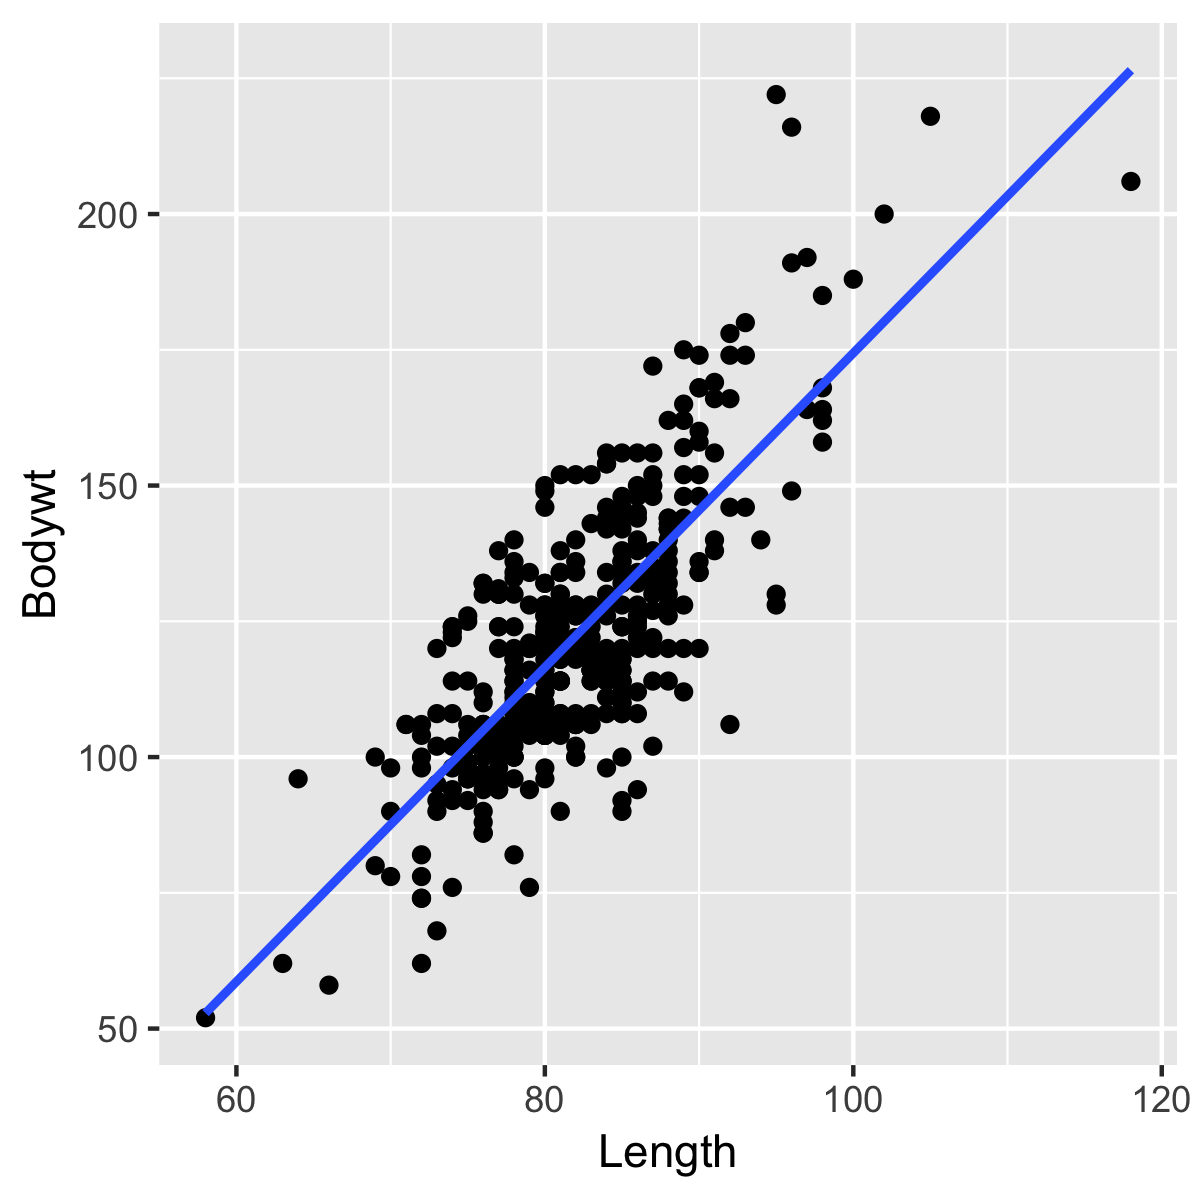
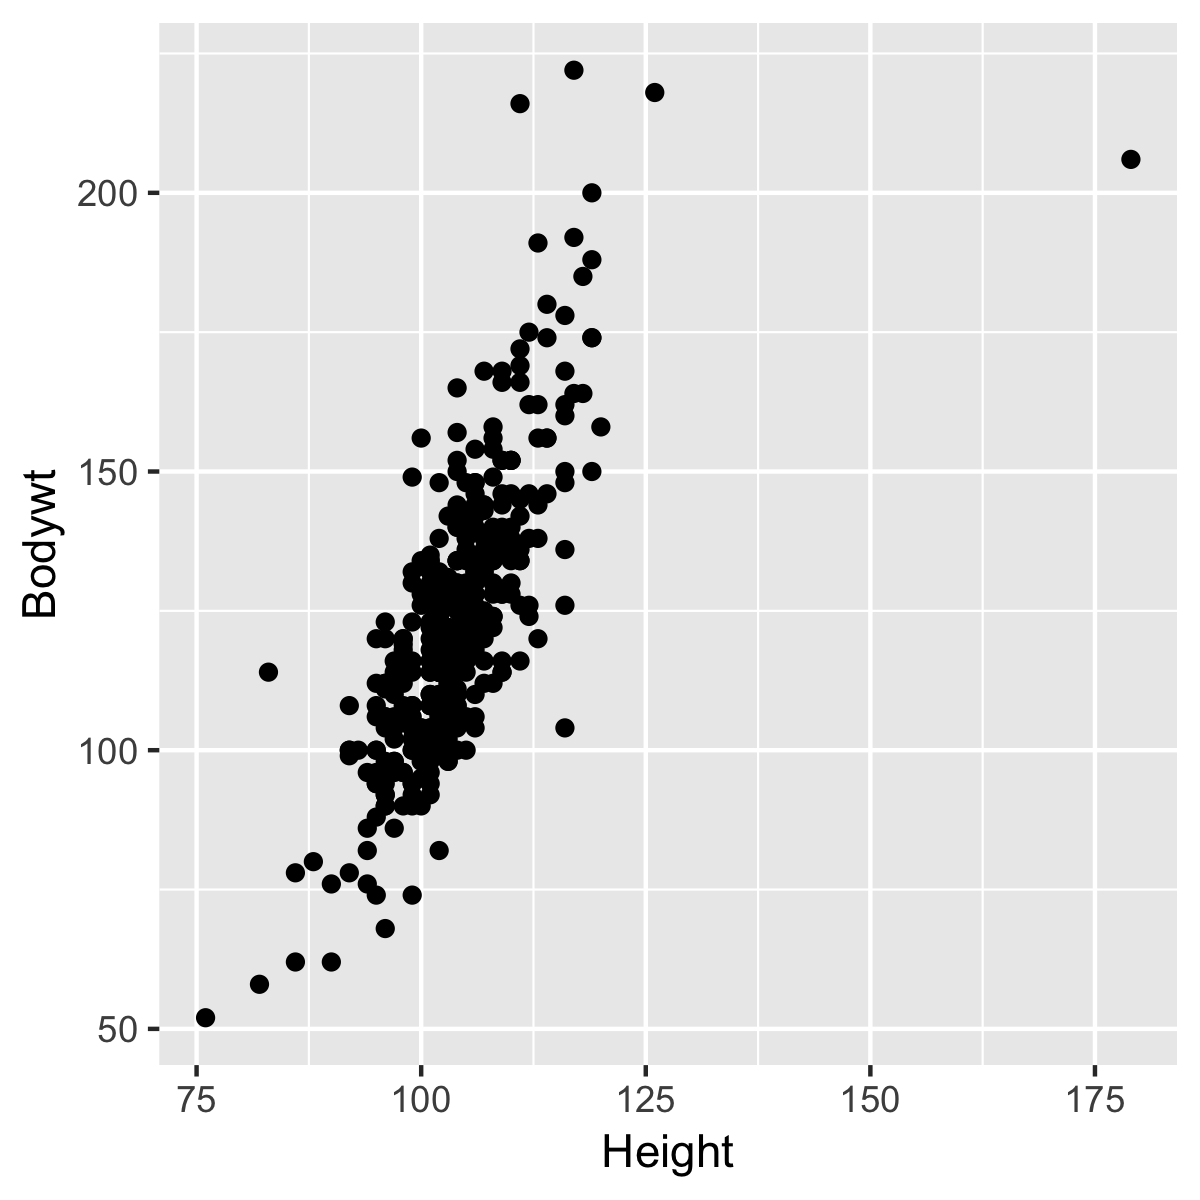
Add HW5

diff --git a/public/Drexel_lectures/Drexel_2019_Lecture_10.html b/public/Drexel_lectures/Drexel_2019_Lecture_10.html
@@ -364,7 +364,7 @@ summary(fit)$r.squared
 
 ## Interpretation of `lm()` output
 
-- Estimate of `\(\sigma\)`: it is well known that `$$\frac{RSS}{n-2}$$` is an _unbiased_ estimator of `\(\sigma\)`, where `\(n\)` is the sample size.
+- Estimate of `\(\sigma\)`: it is well known that `$$\frac{RSS}{n-2}$$` is an _unbiased_ estimator of `\(\sigma^2\)`, where `\(n\)` is the sample size.
 
 --
 
@@ -551,15 +551,15 @@ tss
 
 
 ```r
-r2 &lt;- ssreg/tss
+r2 &lt;- ssreg/tss; print(r2)
 ```
 
---
-
-Alternatively, one can use output from `summary(fit)`:
-
+```
+## [1] 0.897782
+```
 
 ```r
+# or alternatively
 summary(fit)$r.squared
 ```
 
@@ -570,6 +570,8 @@ summary(fit)$r.squared
 --
 
 - Estimate `\(\sigma\)`
+
+--
 
 
 ```r
@@ -736,7 +738,7 @@ Researchers were interested in estimating the **weight** of donkeys using other 
 ggplot(donkey, aes(Length, Bodywt)) + geom_point()
 ```
 
-&lt;img src="Drexel_2019_Lecture_10_files/figure-html/unnamed-chunk-42-1.png" width="50%" style="display: block; margin: auto;" /&gt;
+&lt;img src="Drexel_2019_Lecture_10_files/figure-html/unnamed-chunk-41-1.png" width="50%" style="display: block; margin: auto;" /&gt;
 
 ---
 
@@ -779,7 +781,63 @@ ggplot(donkey, aes(Length, Bodywt)) + geom_point() +
   geom_smooth(method = "lm", se = F)
 ```
 
+&lt;img src="Drexel_2019_Lecture_10_files/figure-html/unnamed-chunk-43-1.png" width="50%" style="display: block; margin: auto;" /&gt;
+
+---
+
+## Multiple linear regression
+
+- Simple linear regression using Height
+
+
+```r
+ggplot(donkey, aes(Height, Bodywt)) + geom_point()
+```
+
 &lt;img src="Drexel_2019_Lecture_10_files/figure-html/unnamed-chunk-44-1.png" width="50%" style="display: block; margin: auto;" /&gt;
+
+---
+
+## Multiple linear regression
+
+
+```r
+fit_Height &lt;- lm(Bodywt ~ Height, data = donkey)
+summary(fit_Height)
+```
+
+```
+## 
+## Call:
+## lm(formula = Bodywt ~ Height, data = donkey)
+## 
+## Residuals:
+##      Min       1Q   Median       3Q      Max 
+## -105.241   -9.825   -0.825    8.505   75.131 
+## 
+## Coefficients:
+##              Estimate Std. Error t value Pr(&gt;|t|)    
+## (Intercept) -137.2379    11.7708  -11.66   &lt;2e-16 ***
+## Height         2.5055     0.1132   22.13   &lt;2e-16 ***
+## ---
+## Signif. codes:  0 '***' 0.001 '**' 0.01 '*' 0.05 '.' 0.1 ' ' 1
+## 
+## Residual standard error: 16.48 on 384 degrees of freedom
+## Multiple R-squared:  0.5605,	Adjusted R-squared:  0.5594 
+## F-statistic: 489.8 on 1 and 384 DF,  p-value: &lt; 2.2e-16
+```
+
+---
+
+## Multiple linear regression
+
+
+```r
+ggplot(donkey, aes(Height, Bodywt)) + geom_point() +
+  geom_smooth(method = "lm", se = F)
+```
+
+&lt;img src="Drexel_2019_Lecture_10_files/figure-html/unnamed-chunk-46-1.png" width="50%" style="display: block; margin: auto;" /&gt;
 
 ---
 

diff --git a/static/Drexel_lectures/Drexel_2019_Lecture_10.html b/static/Drexel_lectures/Drexel_2019_Lecture_10.html
@@ -364,7 +364,7 @@ summary(fit)$r.squared
 
 ## Interpretation of `lm()` output
 
-- Estimate of `\(\sigma\)`: it is well known that `$$\frac{RSS}{n-2}$$` is an _unbiased_ estimator of `\(\sigma\)`, where `\(n\)` is the sample size.
+- Estimate of `\(\sigma\)`: it is well known that `$$\frac{RSS}{n-2}$$` is an _unbiased_ estimator of `\(\sigma^2\)`, where `\(n\)` is the sample size.
 
 --
 
@@ -551,15 +551,15 @@ tss
 
 
 ```r
-r2 &lt;- ssreg/tss
+r2 &lt;- ssreg/tss; print(r2)
 ```
 
---
-
-Alternatively, one can use output from `summary(fit)`:
-
+```
+## [1] 0.897782
+```
 
 ```r
+# or alternatively
 summary(fit)$r.squared
 ```
 
@@ -570,6 +570,8 @@ summary(fit)$r.squared
 --
 
 - Estimate `\(\sigma\)`
+
+--
 
 
 ```r
@@ -736,7 +738,7 @@ Researchers were interested in estimating the **weight** of donkeys using other 
 ggplot(donkey, aes(Length, Bodywt)) + geom_point()
 ```
 
-&lt;img src="Drexel_2019_Lecture_10_files/figure-html/unnamed-chunk-42-1.png" width="50%" style="display: block; margin: auto;" /&gt;
+&lt;img src="Drexel_2019_Lecture_10_files/figure-html/unnamed-chunk-41-1.png" width="50%" style="display: block; margin: auto;" /&gt;
 
 ---
 
@@ -779,7 +781,63 @@ ggplot(donkey, aes(Length, Bodywt)) + geom_point() +
   geom_smooth(method = "lm", se = F)
 ```
 
+&lt;img src="Drexel_2019_Lecture_10_files/figure-html/unnamed-chunk-43-1.png" width="50%" style="display: block; margin: auto;" /&gt;
+
+---
+
+## Multiple linear regression
+
+- Simple linear regression using Height
+
+
+```r
+ggplot(donkey, aes(Height, Bodywt)) + geom_point()
+```
+
 &lt;img src="Drexel_2019_Lecture_10_files/figure-html/unnamed-chunk-44-1.png" width="50%" style="display: block; margin: auto;" /&gt;
+
+---
+
+## Multiple linear regression
+
+
+```r
+fit_Height &lt;- lm(Bodywt ~ Height, data = donkey)
+summary(fit_Height)
+```
+
+```
+## 
+## Call:
+## lm(formula = Bodywt ~ Height, data = donkey)
+## 
+## Residuals:
+##      Min       1Q   Median       3Q      Max 
+## -105.241   -9.825   -0.825    8.505   75.131 
+## 
+## Coefficients:
+##              Estimate Std. Error t value Pr(&gt;|t|)    
+## (Intercept) -137.2379    11.7708  -11.66   &lt;2e-16 ***
+## Height         2.5055     0.1132   22.13   &lt;2e-16 ***
+## ---
+## Signif. codes:  0 '***' 0.001 '**' 0.01 '*' 0.05 '.' 0.1 ' ' 1
+## 
+## Residual standard error: 16.48 on 384 degrees of freedom
+## Multiple R-squared:  0.5605,	Adjusted R-squared:  0.5594 
+## F-statistic: 489.8 on 1 and 384 DF,  p-value: &lt; 2.2e-16
+```
+
+---
+
+## Multiple linear regression
+
+
+```r
+ggplot(donkey, aes(Height, Bodywt)) + geom_point() +
+  geom_smooth(method = "lm", se = F)
+```
+
+&lt;img src="Drexel_2019_Lecture_10_files/figure-html/unnamed-chunk-46-1.png" width="50%" style="display: block; margin: auto;" /&gt;
 
 ---
 

diff --git a/public/2018/12/15/drexel-lectures-spring-2019/index.html b/public/2018/12/15/drexel-lectures-spring-2019/index.html
@@ -77,6 +77,7 @@
 <p><a href="/Drexel_lectures/HW4.pdf">Homework 4</a></p>
 <p><a href="/Drexel_lectures/Drexel_2019_Lecture_9.html">Lecture 9</a></p>
 <p><a href="/Drexel_lectures/Drexel_2019_Lecture_10.html">Lecture 10</a></p>
+<p><a href="/Drexel_lectures/HW5.pdf">Homework 5</a></p>
 
     </div>
   </article>

diff --git a/content/post/2018-12-15-drexel-lectures-spring-2019.html b/content/post/2018-12-15-drexel-lectures-spring-2019.html
@@ -23,3 +23,4 @@ tags: []
 <p><a href="/Drexel_lectures/HW4.pdf">Homework 4</a></p>
 <p><a href="/Drexel_lectures/Drexel_2019_Lecture_9.html">Lecture 9</a></p>
 <p><a href="/Drexel_lectures/Drexel_2019_Lecture_10.html">Lecture 10</a></p>
+<p><a href="/Drexel_lectures/HW5.pdf">Homework 5</a></p>
